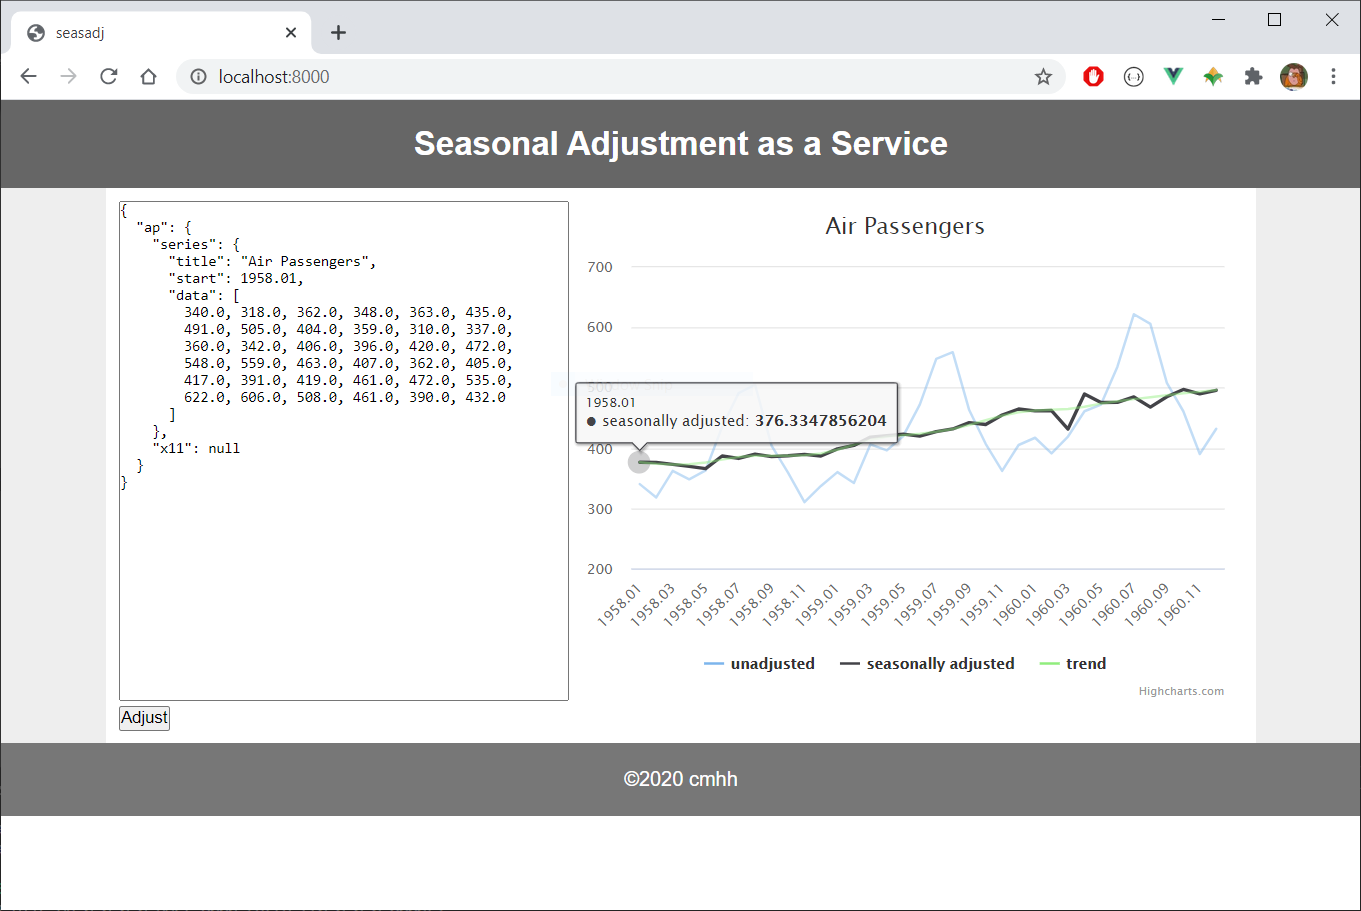
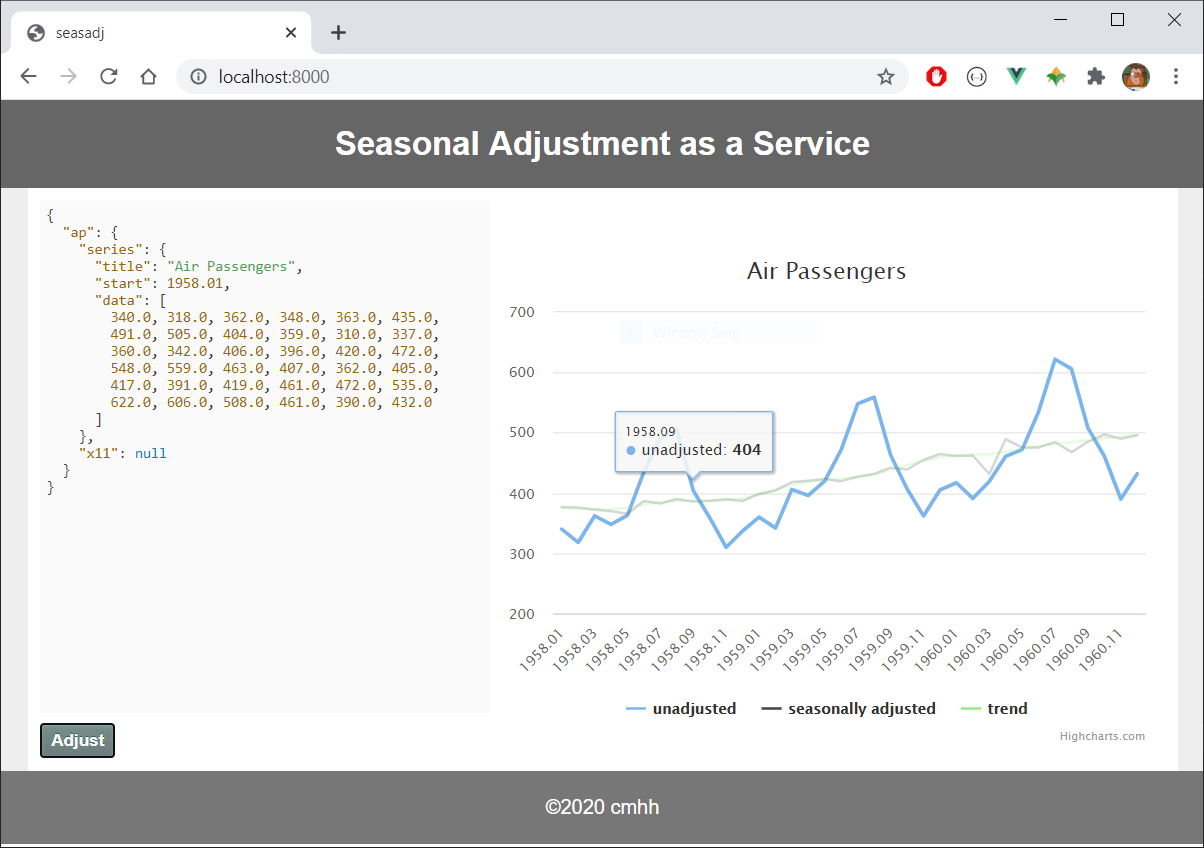
Made spec input look a bit nicer.

diff --git a/docker/seasadj/client/index.html b/docker/seasadj/client/index.html
@@ -4,10 +4,20 @@
         <script src="https://cdn.jsdelivr.net/npm/vue@2/dist/vue.js"></script>
         <script src="https://unpkg.com/axios/dist/axios.min.js"></script>
         <script src="https://code.highcharts.com/highcharts.src.js"></script>
+        <link rel="stylesheet" href="//cdnjs.cloudflare.com/ajax/libs/highlight.js/10.4.0/styles/atom-one-light.min.css">  
+        <script src="//cdnjs.cloudflare.com/ajax/libs/highlight.js/10.4.0/highlight.min.js"></script>
+        <script src="https://cdnjs.cloudflare.com/ajax/libs/rangy/1.3.0/rangy-core.min.js"></script>
+        <script src="https://cdnjs.cloudflare.com/ajax/libs/rangy/1.3.0/rangy-textrange.min.js"></script>
+        <script src="https://cdnjs.cloudflare.com/ajax/libs/rangy/1.3.0/rangy-selectionsaverestore.min.js"></script>
         <style>
             * {
                 padding: 0;
                 margin: 0;
+            }
+
+            pre > code {
+              height: 400px;
+              font-size: 90%;
             }
 
             body {
@@ -43,11 +53,15 @@
             }
 
             #spec {
-                width: 100%;
+                padding: 5px;
+                margin: 0;
+                width: calc(100% - 10px);
+                max-width: 100%;
                 height: 400px;
                 font-size: 90%;
                 resize: none;
                 outline: none;
+                overflow-x: none;
             }
 
             #input {
@@ -55,8 +69,8 @@
                 width: 40%;
                 margin-left: auto;
                 margin-right: auto;
-                overflow-x: auto;
-                overflow-y: auto;
+                overflow-x: none!important;
+                overflow-y: none!important;
             }
 
             #result {
@@ -68,7 +82,42 @@
             }
 
             @media (max-width: 900px) {
-                
+                #input, #result {
+                  display: block;
+                  width: 100%;
+                }
+
+                #spec {
+                  height: 260px;
+                }
+            }
+
+            #adjust {
+                box-shadow:inset 0px 1px 3px 0px #91b8b3;
+                background: linear-gradient(to bottom, #768d87 5%, #6c7c7c 100%);
+                background-color: #768d87;
+                border-radius: 3px;
+                border: 1px solid #566963;
+                display: inline-block;
+                cursor: pointer;
+                color: #ffffff;
+                font-family:Arial;
+                font-size: 85%;
+                font-weight: bold;
+                padding:5px 8px;
+                text-decoration: none;
+                text-shadow: 0px -1px 0px #2b665e;
+                margin-top: 8px;
+            }
+
+            #adjust:hover {
+                background:linear-gradient(to bottom, #6c7c7c 5%, #768d87 100%);
+                background-color:#6c7c7c;
+            }
+
+            #adjust:active {
+                position:relative;
+                top:1px;
             }
         </style>
     </head>
@@ -144,10 +193,16 @@
                     res: []
                 },
                 methods: {
+                    highlight() {
+                        let ss = rangy.saveSelection()
+                        let el = document.getElementById("spec2")
+                        hljs.highlightBlock(el)
+                        rangy.restoreSelection(ss)
+                    },
                     doAdjust(){
                         let context = this                        
                         axios
-                            .post("http://localhost:9001/seasadj/adjust?save=ori,sa,trn", document.getElementById("spec").value)
+                            .post("http://localhost:9001/seasadj/adjust?save=ori,sa,trn", document.getElementById("spec").textContent)
                             .then(response => {
                                 let res = response.data;
                                 let key = Object.keys(res)[0]
@@ -164,9 +219,7 @@
                 template:`
                     <div id=container><div id=content>
                         <div id=input>
-                            <!--<label for="spec">Specification:</label><br>-->
-                            <textarea id="spec" name="spec">
-{
+                            <pre><code id=spec class="json" contenteditable="true" v-on:keyup="highlight" data-trim>{
   "ap": {
     "series": {
       "title": "Air Passengers",
@@ -182,16 +235,17 @@
     },
     "x11": null
   }
-}
-                            </textarea>
+}</code></pre>
+                            <button type="button" @click="doAdjust" id=adjust>Adjust</button>
                         </div>
                         <div id=result>
                             <seasadjchart v-bind:tsdata="res" name=seasadjres></seasadjchart>
                         </div>
-                        <button type="button" @click="doAdjust">Adjust</button>
                     </div></div>
                 `
             })
         </script>
+
+        <script>hljs.initHighlightingOnLoad();</script>
     </body>
 </html>
